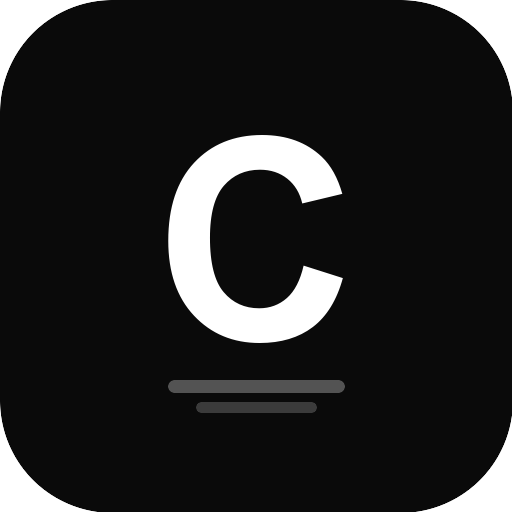
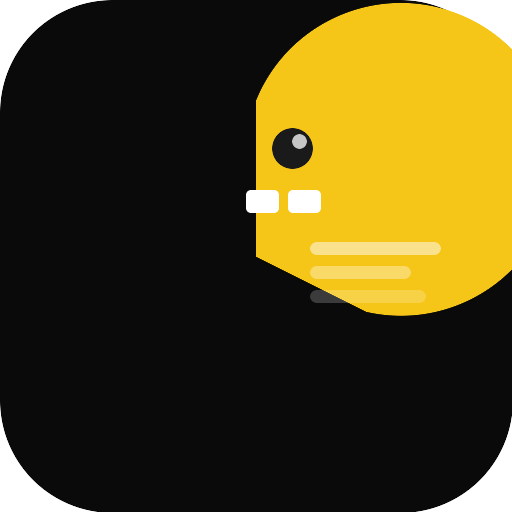
Rebrand to EatText + add Chomp character animation on canvas
- Rename app from Cue → EatText throughout (title, manifest, storage keys)
- Add drawChomp(): animated mouth character on the reading line (25% from top)
  - Chomping at ~3Hz when scrolling, half-open when paused
  - Yellow body, white teeth, eye with shine
  - isDark aware (body color adjusts per theme)
- Redesign icon as the Chomp mascot eating text lines (SVG + PNG regen)
- Update example script pitch text

diff --git a/app.js b/app.js
@@ -1,4 +1,4 @@
-// Cue — Teleprompter PWA
+// EatText — Teleprompter PWA
 // app.js — main entry point
 
 // No external dependencies — word-wrap is implemented inline below.
@@ -7,8 +7,8 @@
 // Constants
 // ============================================================
 
-const STORAGE_KEY_SCRIPT   = 'cue_script';
-const STORAGE_KEY_SETTINGS = 'cue_settings';
+const STORAGE_KEY_SCRIPT   = 'eattext_script';
+const STORAGE_KEY_SETTINGS = 'eattext_settings';
 const DEBOUNCE_SAVE_MS     = 500;
 
 const DEFAULT_SETTINGS = {
@@ -92,7 +92,7 @@ O texto rola automaticamente. Você controla a velocidade com um toque na tela. 
 
 Tem modo espelho para quem usa teleprompter físico na frente da câmera. Tem modo fisheye, que destaca a linha que você está lendo agora. Funciona offline. Funciona em qualquer celular.
 
-Cue. O teleprompter que some quando você não precisa dele.`;
+EatText. O teleprompter que come seu roteiro linha por linha.`;
 
 function loadScript() {
   state.script = localStorage.getItem(STORAGE_KEY_SCRIPT) ?? EXAMPLE_SCRIPT;
@@ -328,6 +328,45 @@ function prepareCanvas() {
   state.totalHeight = state.lines.length * lh;
 }
 
+// Draw the Chomp character — a round face with animated chomping jaw.
+// cx/cy = center, r = radius, mouthOpen = 0 (closed) to 1 (fully open).
+function drawChomp(cx, cy, r, mouthOpen, isDark) {
+  const angle = mouthOpen * 0.38 * Math.PI; // max ~68° opening
+
+  // Body
+  ctx.save();
+  ctx.fillStyle = isDark ? '#f5c518' : '#e6b800';
+  ctx.beginPath();
+  ctx.arc(cx, cy, r, angle, Math.PI * 2 - angle);
+  ctx.lineTo(cx, cy);
+  ctx.closePath();
+  ctx.fill();
+
+  // Upper teeth (2 small rectangles)
+  if (mouthOpen > 0.15) {
+    ctx.fillStyle = '#fff';
+    const toothW = r * 0.22;
+    const toothH = r * 0.18 * mouthOpen;
+    const teethY = cy - r * 0.04;
+    ctx.fillRect(cx - toothW - 1, teethY - toothH, toothW, toothH);
+    ctx.fillRect(cx + 1, teethY - toothH, toothW, toothH);
+  }
+
+  // Eye
+  ctx.fillStyle = isDark ? '#1a1a1a' : '#222';
+  ctx.beginPath();
+  ctx.arc(cx + r * 0.15, cy - r * 0.45, r * 0.13, 0, Math.PI * 2);
+  ctx.fill();
+
+  // Eye shine
+  ctx.fillStyle = 'rgba(255,255,255,0.7)';
+  ctx.beginPath();
+  ctx.arc(cx + r * 0.19, cy - r * 0.5, r * 0.05, 0, Math.PI * 2);
+  ctx.fill();
+
+  ctx.restore();
+}
+
 function renderFrame() {
   const w   = window.innerWidth;
   const h   = window.innerHeight;
@@ -395,6 +434,26 @@ function renderFrame() {
   });
 
   if (state.settings.mirror) ctx.restore();
+
+  // Chomp character — sits at the reading line (25% from top)
+  const readingY = h * 0.25 + lh / 2;
+  const chompR   = Math.round(lh * 0.42);
+  const chompX   = Math.round(padding * 0.42);
+  const isDark   = (state.settings.theme === 'light') ? false
+    : (state.settings.theme === 'dark') ? true
+    : !window.matchMedia('(prefers-color-scheme: light)').matches;
+
+  let mouthOpen;
+  if (!state.running) {
+    // Paused: mouth half-open, waiting
+    mouthOpen = 0.5;
+  } else {
+    // Chomping: oscillate at ~3Hz tied to real time so it feels alive
+    const t = Date.now() / 1000;
+    mouthOpen = (Math.sin(t * Math.PI * 6) + 1) / 2;
+  }
+
+  drawChomp(chompX, readingY, chompR, mouthOpen, isDark);
 
   // Progress bar update
   if (state.settings.progress && state.totalHeight > 0) {

diff --git a/index.html b/index.html
@@ -5,16 +5,16 @@
   <meta name="viewport" content="width=device-width, initial-scale=1.0, viewport-fit=cover">
   <meta name="theme-color" content="#0a0a0a" media="(prefers-color-scheme: dark)">
   <meta name="theme-color" content="#ffffff" media="(prefers-color-scheme: light)">
-  <meta name="description" content="Teleprompter mobile. Cole seu roteiro e comece a ler.">
+  <meta name="description" content="EatText — teleprompter que come seu roteiro linha por linha.">
 
   <!-- PWA -->
   <link rel="manifest" href="/manifest.json">
   <meta name="apple-mobile-web-app-capable" content="yes">
   <meta name="apple-mobile-web-app-status-bar-style" content="black-translucent">
-  <meta name="apple-mobile-web-app-title" content="Cue">
+  <meta name="apple-mobile-web-app-title" content="EatText">
   <link rel="apple-touch-icon" href="/icons/icon-192.png">
 
-  <title>Cue</title>
+  <title>EatText</title>
   <link rel="stylesheet" href="/style.css">
 </head>
 <body>
@@ -22,7 +22,7 @@
   <!-- Screen: Input -->
   <div id="screen-input" class="screen active">
     <header class="input-header">
-      <h1 class="app-title">Cue</h1>
+      <h1 class="app-title">EatText</h1>
       <div class="header-actions">
         <button id="btn-settings" class="icon-btn" aria-label="Configurações">
           <svg width="22" height="22" viewBox="0 0 24 24" fill="none" stroke="currentColor" stroke-width="2" stroke-linecap="round" stroke-linejoin="round" aria-hidden="true">
